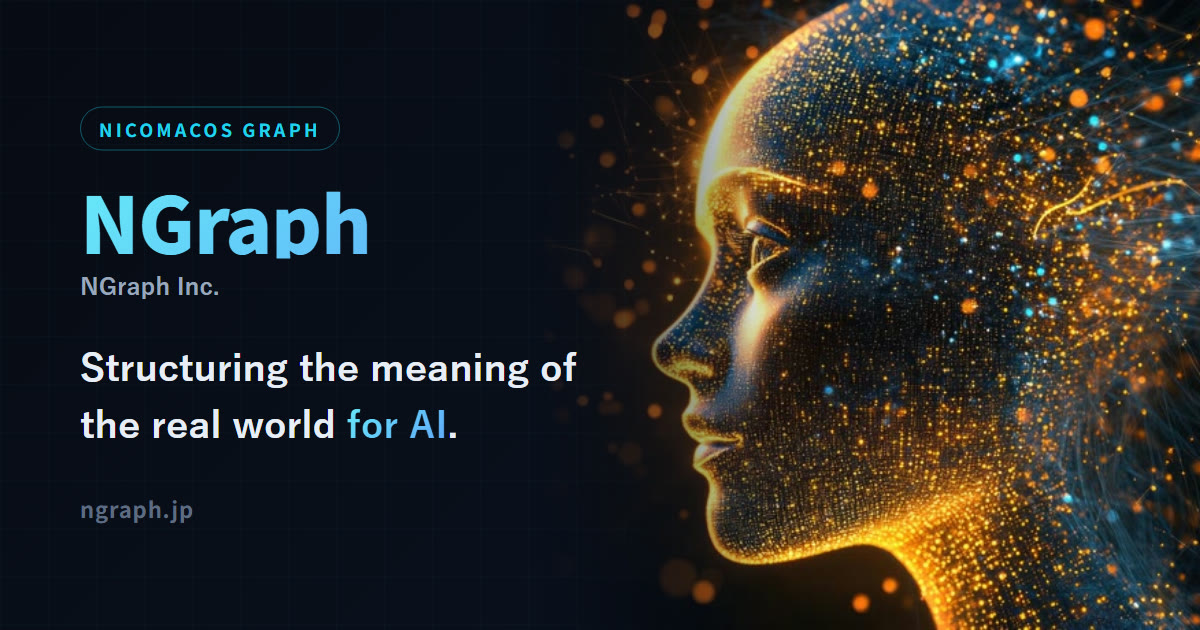
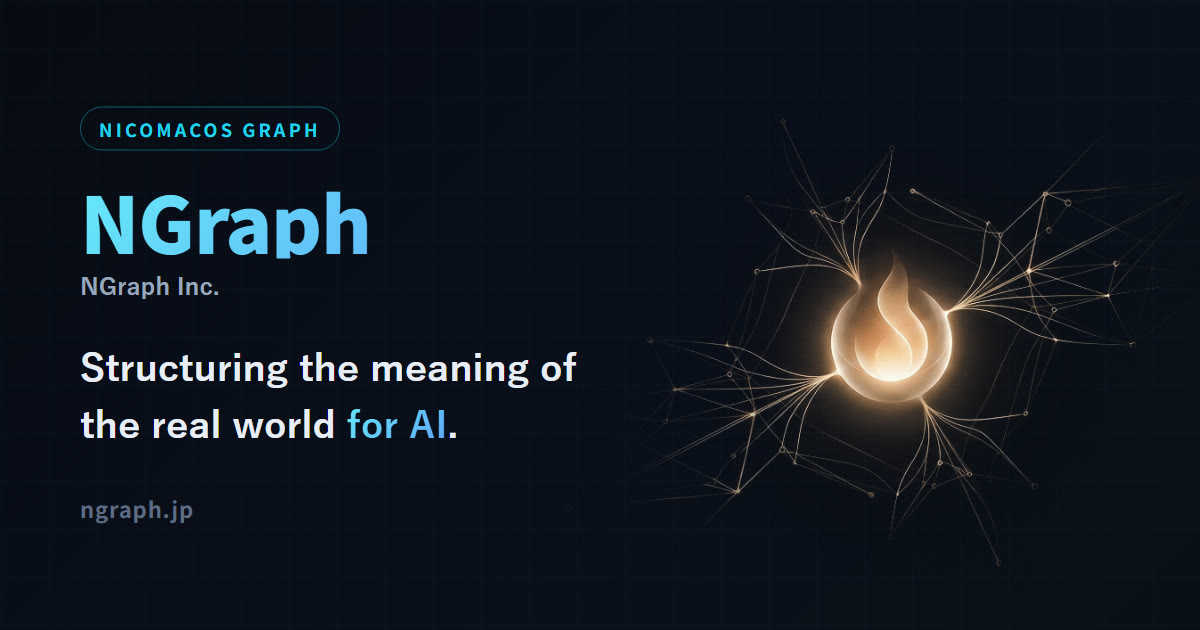
OGP: AI顔→炎ネットワーク(NGraphブランドマーク)に差し替え
OGP画像を粒子フェイスからヒーローと同じ炎ネットワーク(NGraphのトーチ=グラフ構造)に変更。
ストック写真より自社ブランド感が強く、ノード+エッジが「Nicomacos Graph」を体現。
キャッシュ対策で画像URLに ?v=2 付与。JA/EN両対応。

diff --git a/index.html b/index.html
@@ -22,12 +22,12 @@
 <meta property="og:url" content="https://ngraph.jp/">
 <meta property="og:site_name" content="株式会社NGraph">
 <meta property="og:locale" content="ja_JP">
-<meta property="og:image" content="https://ngraph.jp/assets/ogp.jpg">
+<meta property="og:image" content="https://ngraph.jp/assets/ogp.jpg?v=2">
 <meta property="og:image:width" content="1200">
 <meta property="og:image:height" content="630">
 <meta property="og:image:alt" content="株式会社NGraph — 現実世界の「意味」を、AIが理解できる形に">
 <meta name="twitter:card" content="summary_large_image">
-<meta name="twitter:image" content="https://ngraph.jp/assets/ogp.jpg">
+<meta name="twitter:image" content="https://ngraph.jp/assets/ogp.jpg?v=2">
 <link rel="canonical" href="https://ngraph.jp/">
 <link rel="alternate" hreflang="ja" href="https://ngraph.jp/">
 <link rel="alternate" hreflang="en" href="https://ngraph.jp/en/">

diff --git a/en/index.html b/en/index.html
@@ -21,12 +21,12 @@
 <meta property="og:url" content="https://ngraph.jp/en/">
 <meta property="og:site_name" content="NGraph Inc.">
 <meta property="og:locale" content="en_US">
-<meta property="og:image" content="https://ngraph.jp/assets/ogp-en.jpg">
+<meta property="og:image" content="https://ngraph.jp/assets/ogp-en.jpg?v=2">
 <meta property="og:image:width" content="1200">
 <meta property="og:image:height" content="630">
 <meta property="og:image:alt" content="NGraph Inc. — Structuring the meaning of the real world for AI">
 <meta name="twitter:card" content="summary_large_image">
-<meta name="twitter:image" content="https://ngraph.jp/assets/ogp-en.jpg">
+<meta name="twitter:image" content="https://ngraph.jp/assets/ogp-en.jpg?v=2">
 <link rel="canonical" href="https://ngraph.jp/en/">
 <link rel="alternate" hreflang="ja" href="https://ngraph.jp/">
 <link rel="alternate" hreflang="en" href="https://ngraph.jp/en/">
